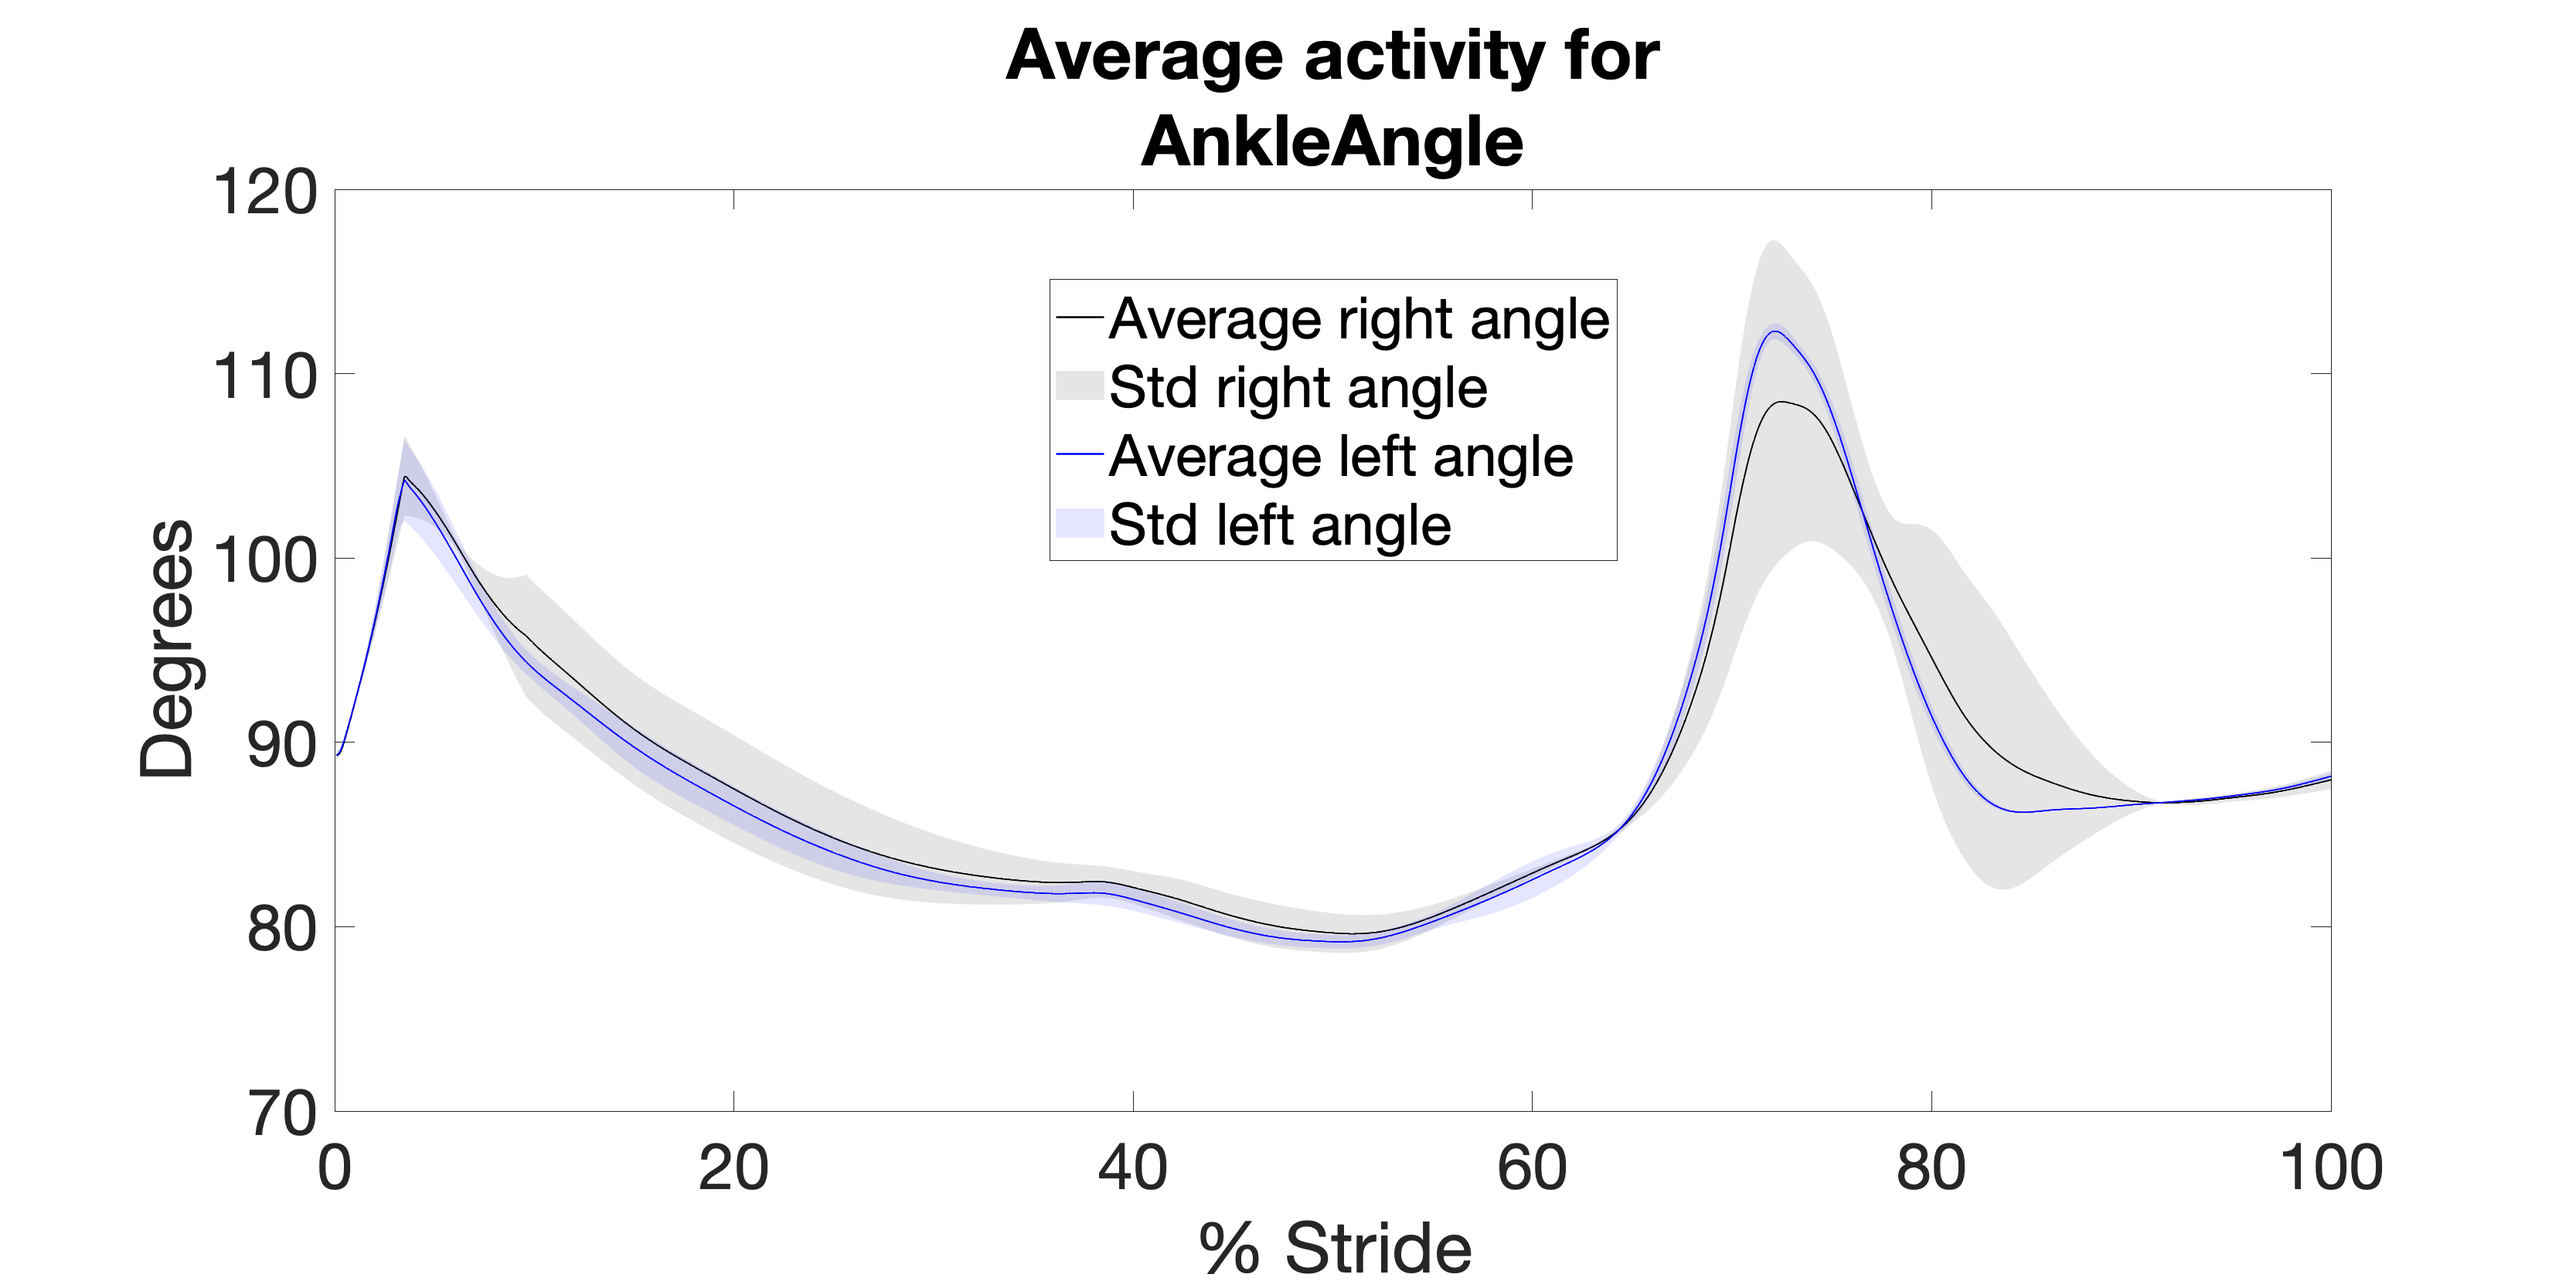
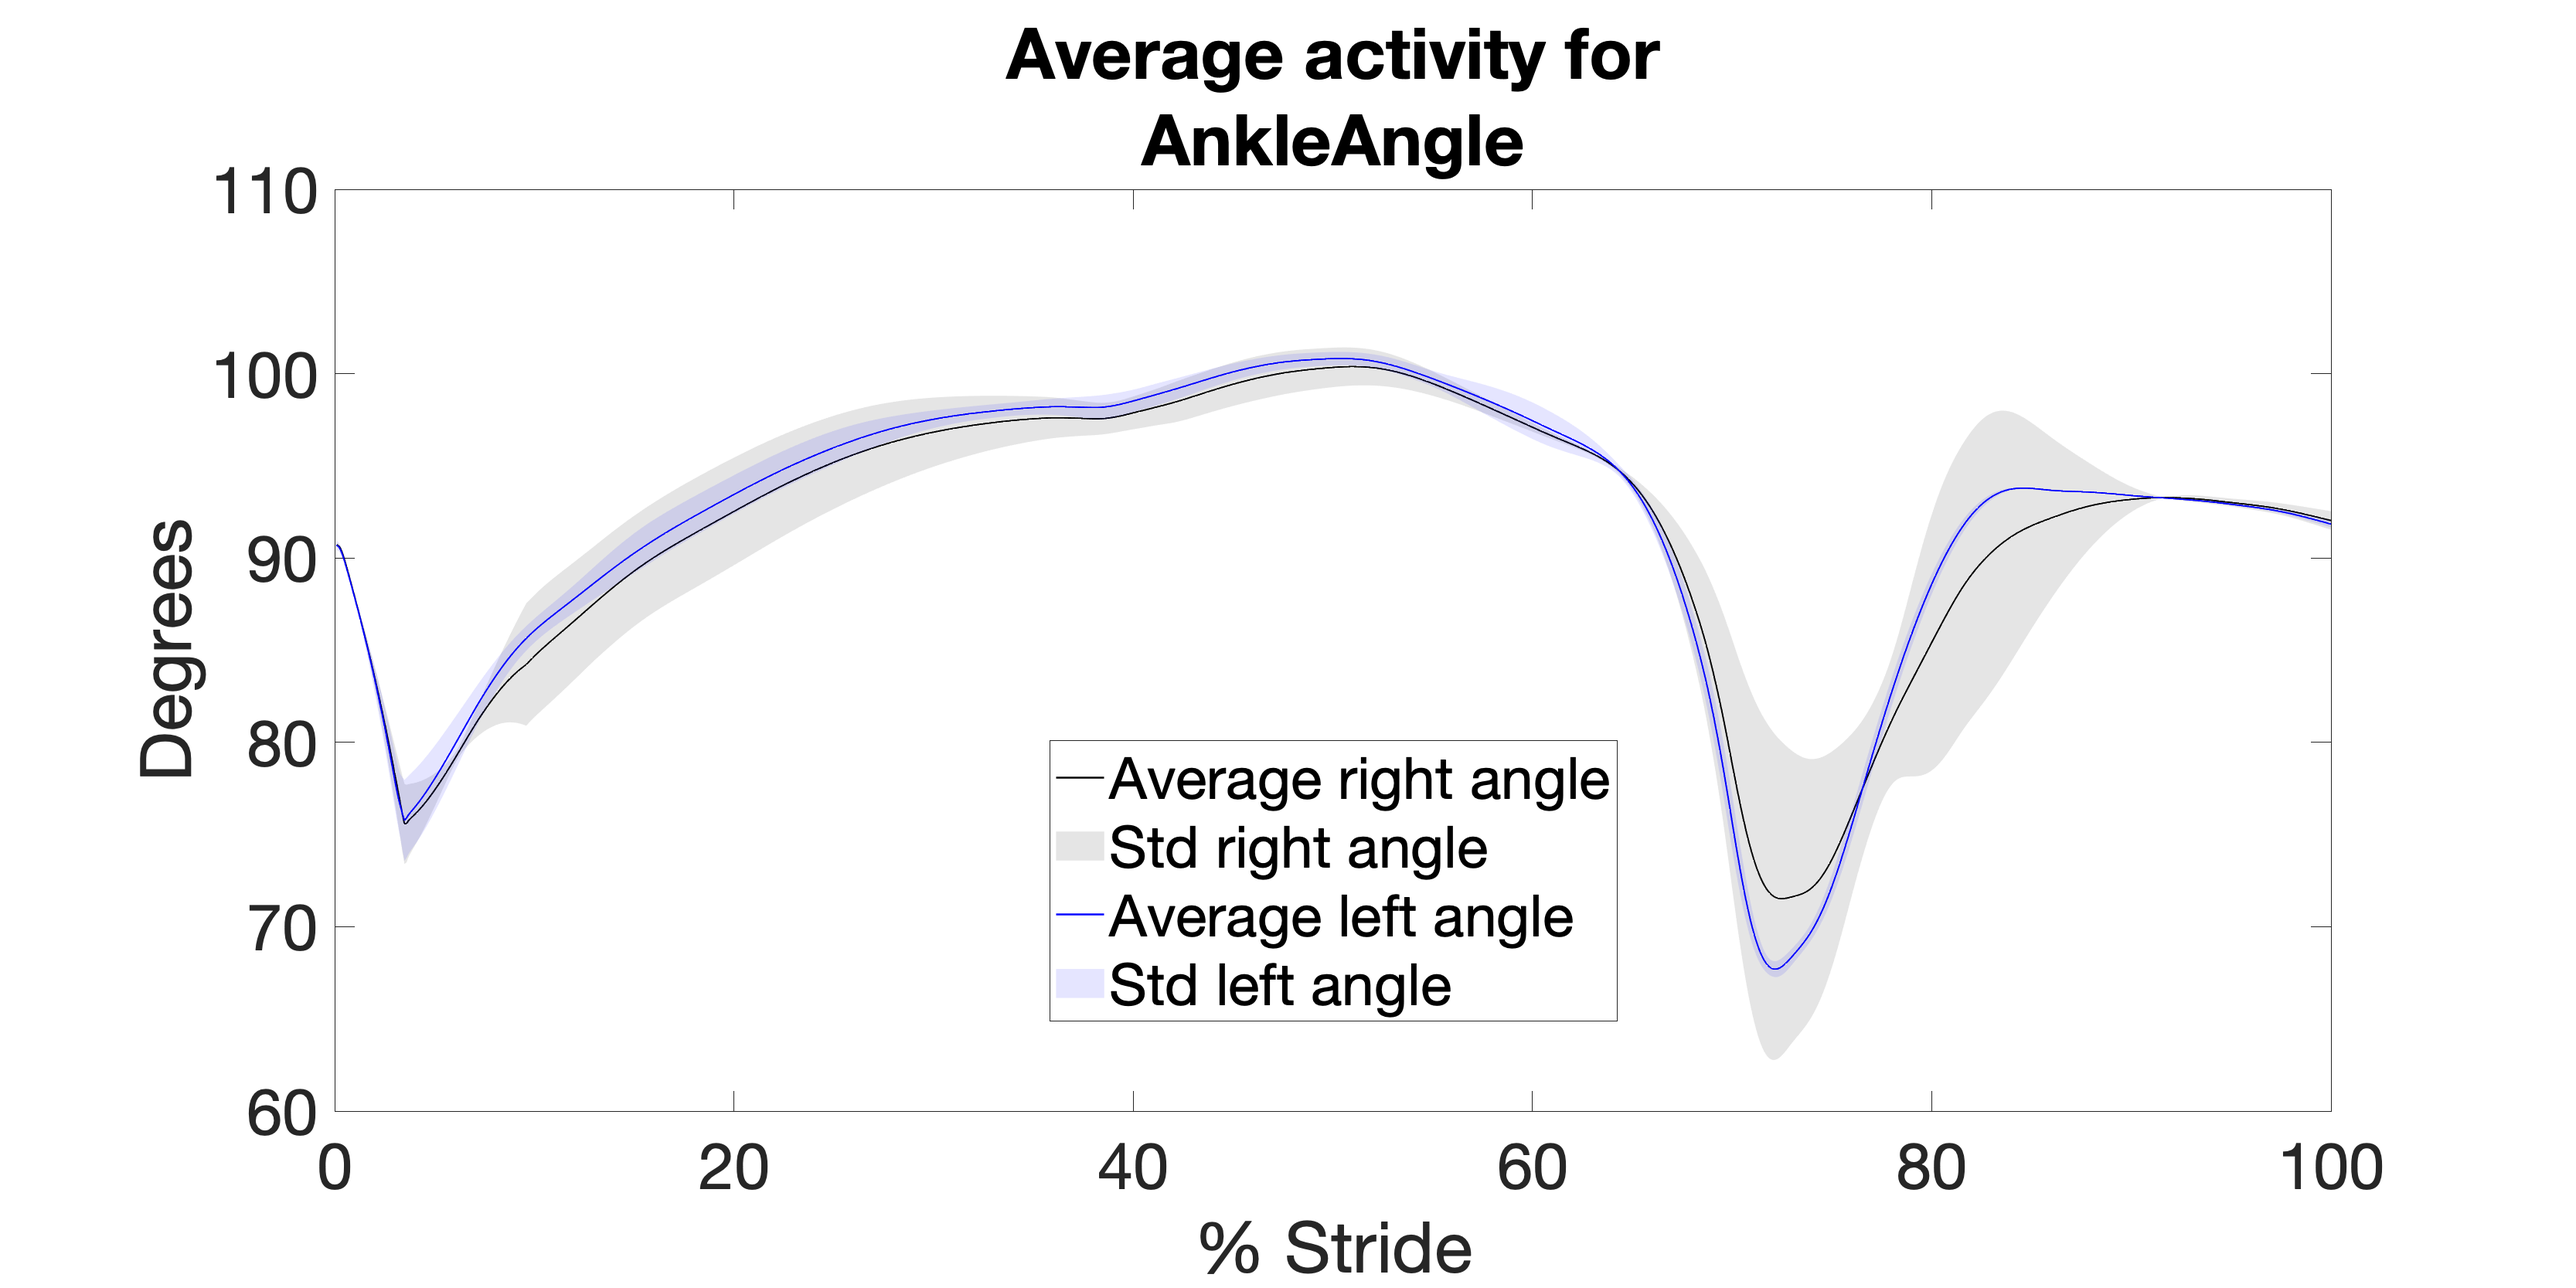
truc

diff --git a/GEYER_Assignment/exercise2_data/Ex2.m b/GEYER_Assignment/exercise2_data/Ex2.m
@@ -183,6 +183,7 @@ for muscle = 1: length(muscles)
     
     ax = gca;
     ax.FontSize = 40;
+    axis([0 100 0 1])
     xlabel('% Stride');
     ylabel('Activity');
     legend('Average right muscle','Std right muscle','Average left muscle','Std left muscle');
@@ -196,7 +197,7 @@ for i = 1:length(HS_right)-1
     for angle = 1: length(angles)
         current_signal = struct_angles.right.parsed.(angles{angle}){i};
         interpolated_signal = interp1(1:1:length(current_signal),current_signal,1:1:nbr_points,'nearest');
-        interpolated_signal_per.right.(angles{angle}){i} = rad2deg(interpolated_signal);
+        interpolated_signal_per.right.(angles{angle}){i} = 180- rad2deg(interpolated_signal);
     end
 end
 % Left foot
@@ -204,7 +205,7 @@ for i = 1:length(HS_left)-1
     for angle = 1: length(angles)
         current_signal = struct_angles.left.parsed.(angles{angle}){i};
         interpolated_signal = interp1(1:1:length(current_signal),current_signal,1:1:nbr_points,'nearest');
-        interpolated_signal_per.left.(angles{angle}){i} = rad2deg(interpolated_signal);
+        interpolated_signal_per.left.(angles{angle}){i} = 180 - rad2deg(interpolated_signal);
     end
 end
 % Meand and std
@@ -248,6 +249,7 @@ for angle = 1: length(angles)
     alpha(.1)
     ax = gca;
     ax.FontSize = 40;
+    
     xlabel('% Stride');
     ylabel('Degrees');
     title({'Average activity for',num2str(angles{angle})});

diff --git a/GEYER_Assignment/exercise1_data/Ex1.m b/GEYER_Assignment/exercise1_data/Ex1.m
@@ -221,10 +221,10 @@ YMIN = 0;
 YMAX = 3200;
 figure(1);
 %plot(first_GRF1(:,2));
-plot(GRF2(:,2));
+plot(GRF1(:,2));
 hold on;
-plot(GRF3(:,2));
-legend('2','3');
+plot(GRF2(:,2));
+legend('1','2');
 axis([XMIN XMAX YMIN YMAX])
 
 FFb.foot_falls1 = data_to_compare1.data1.footfall.data;

diff --git a/GEYER_Assignment/exercise2_data/Ex2b.m b/GEYER_Assignment/exercise2_data/Ex2b.m
@@ -1,0 +1,14 @@
+%% AML-Reflex Model Project
+% Authors:
+% Gaia Carparelli
+% Marion Claudet
+clc;
+clear all;
+close all;
+%% Run simulation
+
+init();
+
+% After running init simulation
+struct_mRFX = mRFX;
+%save('struct_mRFX.mat','struct_mRFX'); % to use it later
